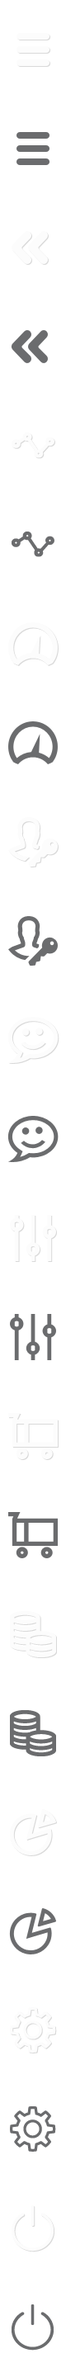
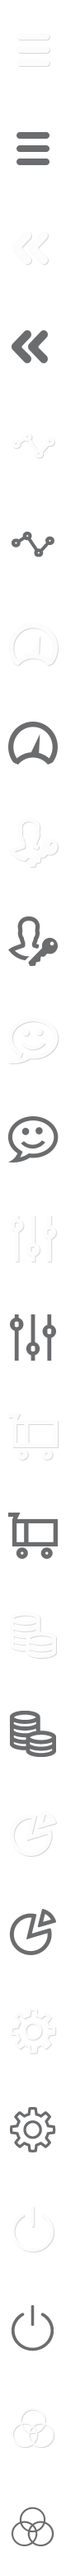
CICO-13899 - Group menu and search styles

diff --git a/stylesheets/less/app/05-A_components.less b/stylesheets/less/app/05-A_components.less
@@ -642,6 +642,7 @@
 /* Search                   ==============================*/
     #search,
     #find-cards,
+    #find-group,
     #rooms {
        &.no-results {
             .wrapper,
@@ -1247,6 +1248,93 @@
                         }
 
                         .highlight { color: @logoPrimary; }
+                    }
+                }
+
+                /* Groups ***/
+                &.group {
+                    a,
+                    .faux-anchor {
+
+                        .highlight { color: @logoPrimary; }
+                        
+                        .data {
+                            margin-right: 40px;
+                            .calc-width(100, 520);
+
+                            h2 {
+                                line-height: 24px;
+                                margin-bottom: 6px;
+                            }
+
+                            .confirmation,
+                            .icons {
+                                display: inline;
+                                line-height: 20px;
+                                height: 20px;
+                                overflow: hidden;
+                                margin-right: 20px;
+
+                                &:last-child { margin-right: 0; }
+                            }
+
+                            .icons {
+                                color: @grey3;
+                                padding-left: 20px;
+                            }
+
+                            .confirmation { color: @textColor; }
+                        }
+
+                        .arrival, 
+                        .departure {
+                            margin: 10px 20px 0 0;
+                            width: 120px;
+                            .pull-left;
+
+                            .guest-status { 
+                                margin-right: 5px;
+                                .square(30px); 
+                            }
+
+                            time { line-height: 30px; }
+                        }
+
+                        .blocked,
+                        .picked {
+                            margin-top: 10px;
+                            text-align: center;
+                            width: 80px;
+                            .pull-left;
+
+                            strong {
+                                font-size: 20px;
+                                line-height: 1em;
+                                font-weight: 600;
+                                .show;
+                            }
+
+                            span {
+                                font-size: 14px;
+                                text-transform: uppercase;
+                            }
+                        }
+
+                        .blocked { 
+                            margin: 10px 20px 0 20px; 
+
+                            &.tentative { color: @logoPrimary; }
+                        }
+
+                        .picked { 
+                            strong { 
+                                font-size: 24px;
+                                margin-top: -4px;
+                            }
+
+                            &.green { color: @green; }
+                            &.red { color: @red; }
+                        }
                     }
                 }
             }

diff --git a/stylesheets/less/common/03_graphics.less b/stylesheets/less/common/03_graphics.less
@@ -61,6 +61,11 @@
 			&.active { background-position: 0 -1385px;}
 		}
 
+		&.icon-groups {
+			background-position: 0 -1445px; 
+			&.active { background-position: 0 -1505px;}
+		}
+
 		@media only screen and (min-width: 600px) {
 			height: 60px;
 
@@ -107,6 +112,11 @@
 			&.icon-sign-out {
 				background-position: 0 -1320px; 
 				&.active { background-position: 0 -1380px;}
+			}
+
+			&.icon-groups {
+				background-position: 0 -1440px; 
+				&.active { background-position: 0 -1500px;}
 			}
 		}
 
